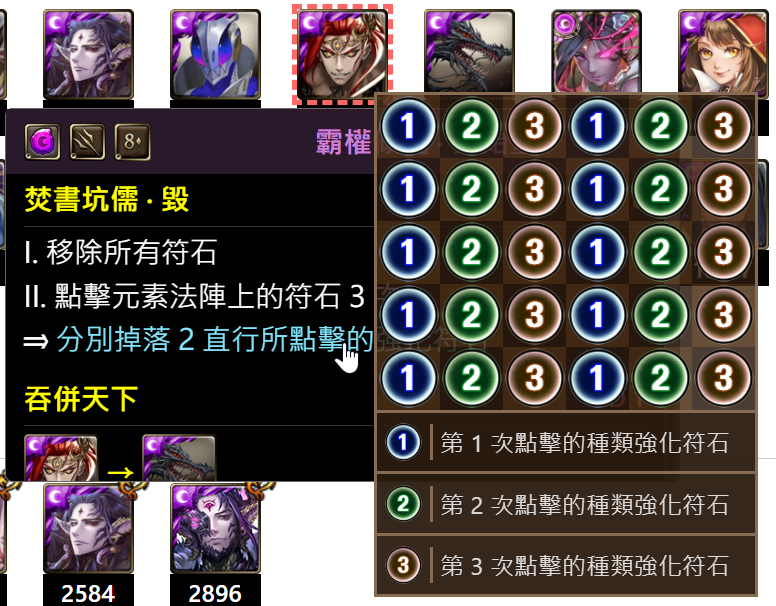
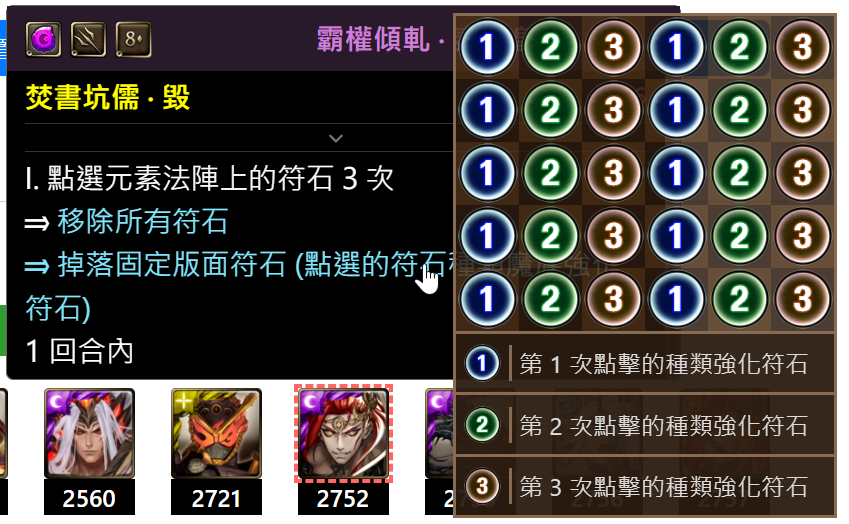
add tag expander in skill popover

diff --git a/src/shared/ResultRow/ResultImage/ResultMonsterImage.tsx b/src/shared/ResultRow/ResultImage/ResultMonsterImage.tsx
@@ -1,7 +1,15 @@
 import React, { useCallback, useContext, useRef, useMemo } from "react"
-import { Col, Popover, Row } from "react-bootstrap"
+import {
+    Accordion,
+    AccordionContext,
+    Col,
+    Popover,
+    Row,
+    useAccordionButton,
+} from "react-bootstrap"
 import _ from "lodash"
 import { AutoTextSize } from "auto-text-size"
+import { faAngleDown, faAngleUp } from "@fortawesome/free-solid-svg-icons"
 
 import { attrZhToEn, raceZhToEn } from "src/constant/filterConstants"
 import Context from "src/utilities/Context/Context"
@@ -12,6 +20,7 @@ import {
     paddingZeros,
 } from "src/utilities/utils"
 import Image from "src/utilities/Image"
+import Icon from "src/utilities/Icon"
 import {
     useChinarashi,
     useCongratsClicker,
@@ -30,6 +39,18 @@ export interface IResultMonsterImageProps {
     setPopoverContent?: (content: React.ReactElement) => void
     searchParam: IObject
     resultData: IObject[]
+}
+
+const TagExpanderHeader = ({ eventKey }: IObject) => {
+    const { activeEventKey } = useContext(AccordionContext)
+    const onClick = useAccordionButton(eventKey, () => {})
+    const isOpen = activeEventKey === eventKey
+
+    return (
+        <div className='tag-expander-header' onClick={onClick}>
+            <Icon icon={isOpen ? faAngleUp : faAngleDown} />
+        </div>
+    )
 }
 
 export const ResultMonsterImage: React.FC<IResultMonsterImageProps> = (
@@ -136,6 +157,43 @@ export const ResultMonsterImage: React.FC<IResultMonsterImageProps> = (
             </Row>
         )
     }, [attribute, id, name, race, star])
+
+    const renderMonsterTags = useCallback(
+        (tags: [string | [string, number]]) => {
+            return (
+                <Accordion>
+                    <TagExpanderHeader eventKey='0' />
+                    <Accordion.Collapse eventKey='0'>
+                        <Row
+                            style={{
+                                width: "100%",
+                                margin: 0,
+                            }}
+                        >
+                            {tags?.map((tag: string | [string, number]) => {
+                                const tagText = _.isArray(tag) ? tag?.[0] : tag
+                                const attr = attrZhToEn?.[attribute] || "u"
+
+                                return (
+                                    <Col xs={6} sm={4} className='tag-wrapper'>
+                                        <div
+                                            className={`result-tag result-tag-${attr}`}
+                                            title={`${tagText}`}
+                                        >
+                                            <AutoTextSize maxFontSizePx={14}>
+                                                {tagText}
+                                            </AutoTextSize>
+                                        </div>
+                                    </Col>
+                                )
+                            })}
+                        </Row>
+                    </Accordion.Collapse>
+                </Accordion>
+            )
+        },
+        [attribute]
+    )
 
     const renderMonsterSkill = useCallback(() => {
         return (skillIndexes || [skillIndex]).map((skillIndex: number) => {
@@ -277,6 +335,17 @@ export const ResultMonsterImage: React.FC<IResultMonsterImageProps> = (
                     <Col xs={12} sm={12} className='monster-skill-hr'>
                         <hr />
                     </Col>
+                    {skill?.tag && (
+                        <>
+                            {/* Currently only support skill filter */}
+                            <Col xs={12} sm={12} className='monster-skill-tags'>
+                                {renderMonsterTags(skill?.tag)}
+                            </Col>
+                            <Col xs={12} sm={12} className='monster-skill-hr'>
+                                <hr />
+                            </Col>
+                        </>
+                    )}
                     <Row className='monster-skill-description-row'>
                         <Col
                             xs={12}
@@ -293,7 +362,7 @@ export const ResultMonsterImage: React.FC<IResultMonsterImageProps> = (
                 </Row>
             )
         })
-    }, [id, skillIndex, skillIndexes, skills])
+    }, [id, renderMonsterTags, skillIndex, skillIndexes, skills])
 
     const monsterInfoPopover = useMemo(
         () =>

diff --git a/src/shared/ResultRow/ResultImage/style.scss b/src/shared/ResultRow/ResultImage/style.scss
@@ -329,6 +329,85 @@
             }
         }
 
+        &-tags {
+            .tag-expander-header {
+                color: var(--table-border);
+                text-align: center;
+                font-size: 12px;
+                cursor: pointer;
+            }
+
+            .tag-wrapper {
+                padding: 3px !important;
+
+                .result-tag {
+                    font-size: 1em;
+                    font-weight: bold;
+                    border-radius: 5px;
+                    color: var(--text-white);
+                    padding: 2px;
+                    cursor: default;
+
+                    align-items: center !important;
+                    justify-content: center;
+
+                    &-w {
+                        background: color-mix(
+                            in srgb,
+                            var(--popover-monster-name-water),
+                            var(--popover-bg) 50%
+                        );
+                    }
+                    &-f {
+                        background: color-mix(
+                            in srgb,
+                            var(--popover-monster-name-fire),
+                            var(--popover-bg) 50%
+                        );
+                    }
+                    &-e {
+                        background: color-mix(
+                            in srgb,
+                            var(--popover-monster-name-earth),
+                            var(--popover-bg) 50%
+                        );
+                    }
+                    &-l {
+                        background: color-mix(
+                            in srgb,
+                            var(--popover-monster-name-light),
+                            var(--popover-bg) 50%
+                        );
+                    }
+                    &-d {
+                        background: color-mix(
+                            in srgb,
+                            var(--popover-monster-name-dark),
+                            var(--popover-bg) 50%
+                        );
+                    }
+                    &-o {
+                        background: color-mix(
+                            in srgb,
+                            var(--text-white),
+                            var(--popover-bg) 50%
+                        );
+                    }
+                    &-u {
+                        background: color-mix(
+                            in srgb,
+                            var(--popover-monster-name-undefined),
+                            var(--popover-bg) 50%
+                        );
+                    }
+                }
+                .tag-subtext {
+                    color: #ccccff;
+                    font-size: 0.8em;
+                }
+            }
+        }
+
         &-description {
             &-row {
                 width: 100%;
